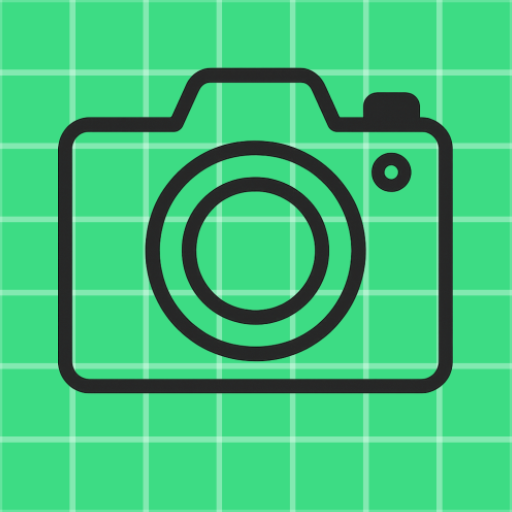
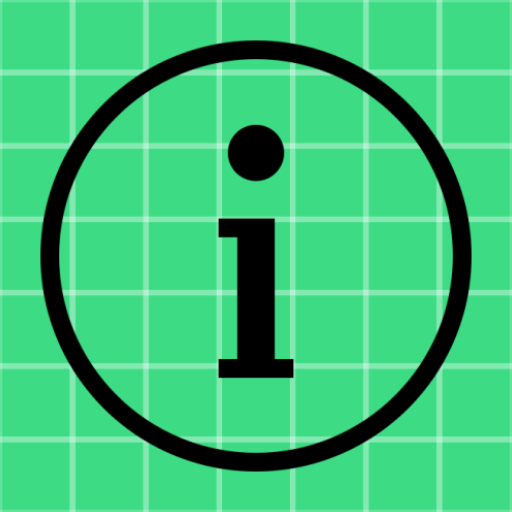
test

Changed region(s): [[0.0625, 0.0625, 0.9375, 0.9375]]

diff --git a/MyApplication3/app/src/main/java/com/example/myapplication/MainActivity.kt b/MyApplication3/app/src/main/java/com/example/myapplication/MainActivity.kt
@@ -5,18 +5,30 @@ import android.os.Bundle
 import androidx.activity.ComponentActivity
 import androidx.activity.compose.setContent
 import androidx.activity.enableEdgeToEdge
+import androidx.compose.foundation.background
+import androidx.compose.foundation.layout.Arrangement
 import androidx.compose.foundation.layout.Box
+import androidx.compose.foundation.layout.Column
+import androidx.compose.foundation.layout.Row
+import androidx.compose.foundation.layout.Spacer
 import androidx.compose.foundation.layout.fillMaxSize
-import androidx.compose.material3.FilledTonalButton
+import androidx.compose.foundation.layout.fillMaxWidth
+import androidx.compose.foundation.layout.padding
+import androidx.compose.foundation.layout.size
+import androidx.compose.foundation.layout.width
 import androidx.compose.material3.Icon
 import androidx.compose.material3.IconButton
+import androidx.compose.material3.MaterialTheme
 import androidx.compose.material3.Text
 import androidx.compose.runtime.Composable
-import androidx.compose.runtime.remember
 import androidx.compose.ui.Alignment
 import androidx.compose.ui.Modifier
+import androidx.compose.ui.graphics.Color
 import androidx.compose.ui.res.painterResource
+import androidx.compose.ui.text.style.TextAlign
+import androidx.compose.ui.unit.dp
 import com.example.myapplication.ui.theme.MyApplicationTheme
+import kotlin.random.Random
 
 class MainActivity : ComponentActivity() {
     override fun onCreate(savedInstanceState: Bundle?) {
@@ -25,41 +37,134 @@ class MainActivity : ComponentActivity() {
 
         setContent {
             MyApplicationTheme {
-                Box(modifier = Modifier.fillMaxSize(),
-                    contentAlignment = Alignment.BottomCenter
-                ){
-
-                    IconButton(onClick = {
+                MainMenuScreen(
+                    schnitzelJagd = {
+                        // Intent für Schnitzeljagd starten
+                        // val intent = Intent(this@MainActivity, ScavengerHuntActivity::class.java)
+                        // startActivity(intent)
+                    },
+                    onSettingsClick = {
+                        // Intent für Einstellungen starten
+                        // val intent = Intent(this@MainActivity, SettingsActivity::class.java)
+                        // startActivity(intent)
+                    },
+                    onCameraClick = {
                         val intent = Intent(this@MainActivity, CameraX::class.java)
                         startActivity(intent)
-                    }) {
-                        Icon(
-                            painter = painterResource(id = R.drawable.bildericonss_background),
-                            contentDescription = null
-                        )
                     }
-                }
-                }
+                )
             }
         }
     }
+}
 
-    @Composable
-    fun Greeting(name: String, modifier: Modifier = Modifier) {
-        Text(
-            text = "Hallo $name!",
-            modifier = modifier
-        )
-    }
+@Composable
+fun MainMenuScreen(
+    schnitzelJagd: () -> Unit,
+    onSettingsClick: () -> Unit,
+    onCameraClick: () -> Unit
+) {
+    Box(
+        modifier = Modifier
+            .fillMaxSize()
+            .background((Color(0xFFE8F5E9))) //Hellgrüner Hintergrund
+    ) {
 
-    @Composable
-    fun FilledTonalButtonExample(onClick: () -> CameraX) {
-        val viewModel = remember { CameraPreviewViewModel() }
-        CameraPreviewScreen(viewModel)
+        // Button-Zeile oben
+        Row(
+            modifier = Modifier
+                .fillMaxWidth()
+                .align(Alignment.TopCenter)
+                .padding(top = 100.dp),
+            horizontalArrangement = Arrangement.SpaceBetween
+        ) {
 
-        FilledTonalButton(onClick = { }) {
-            Text("Foto schießen")
+            //Schnitzeljagd Icon Button
+            IconButton(
+                onClick = schnitzelJagd,
+                modifier = Modifier.padding(5.dp),
+            ) {
+                Icon(
+                    painter = painterResource(R.drawable.schnitzeljagdbild),
+                    contentDescription = null
+                )
+            }
+
+            /* Schnitzeljagd-Button Bild outlines (links oben)
+            Button(
+                onClick = schnitzelJagd,
+                modifier = Modifier.padding(5.dp).width(130.dp).height(60.dp),
+                shape = RoundedCornerShape(10.dp),
+                colors = ButtonDefaults.buttonColors(
+                    containerColor = Color.Green
+                )
+            ) {
+                Text(text = "Schnitzeljagd")
+            } */
+
+            //Einstellungen Button
+            IconButton(
+                onClick = onSettingsClick,
+                modifier = Modifier.padding(bottom = 50.dp).padding(start = 195.dp)
+            ) {
+                Icon(
+                    painter = painterResource(R.drawable.settingsicon),
+                    contentDescription = null,
+                )
+            }
+        }
+
+            // Zentrierter Info-Bereich
+            Box(
+                modifier = Modifier.fillMaxWidth().align(Alignment.Center),
+                contentAlignment = Alignment.Center
+            ) {
+            Column(
+                horizontalAlignment = Alignment.CenterHorizontally,
+                modifier = Modifier.padding(horizontal = 32.dp)
+            ) {
+                Icon(
+                    painter = painterResource(id = R.drawable.info),
+                    contentDescription = "Information",
+                    tint = Color(0xFF2E7D32),
+                    modifier = Modifier.size(48.dp)
+                )
+
+                Text(
+                    text = "Willkommen in der BRAUERAI-App\n\n" +
+                            infotextRandom(),
+                    style = MaterialTheme.typography.bodyLarge,
+                    color = Color(0xFF2E7D32),
+                    textAlign = TextAlign.Center,
+                    modifier = Modifier.padding(top = 16.dp)
+                    )
+                }
+            }
+
+        //Kamera Icon-Button
+        IconButton(
+            onClick = onCameraClick,
+            modifier = Modifier.align(Alignment.BottomCenter).padding(bottom = 50.dp),
+            enabled = true,
+        ) {
+            Row(verticalAlignment = Alignment.CenterVertically) {
+                Icon(
+                    painter = painterResource(id = R.drawable.fotoicon), contentDescription = null,
+                    modifier = Modifier.size(100.dp)
+                )
+                Spacer(modifier = Modifier.width(7.dp))
+            }
         }
     }
+}
 
+fun infotextRandom(): String {
+    val infos = arrayOf(
+        "Was ist dein Lieblingsbier?",
+        "Du trinkst bestimmt nur Radler, hihi",
+        "Einfach Foto aufnehmen und deine Empfehlung generieren"
+    )
+    val rndnmb = Random.nextInt(4)
+    return infos[rndnmb]
+}
 
